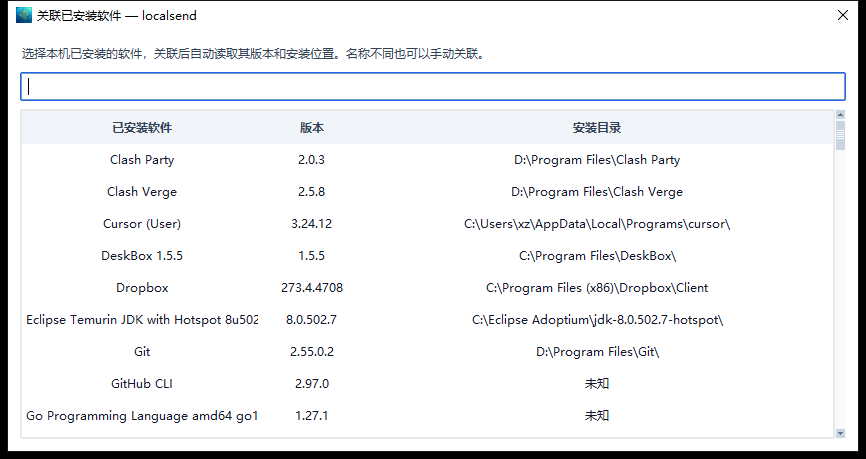
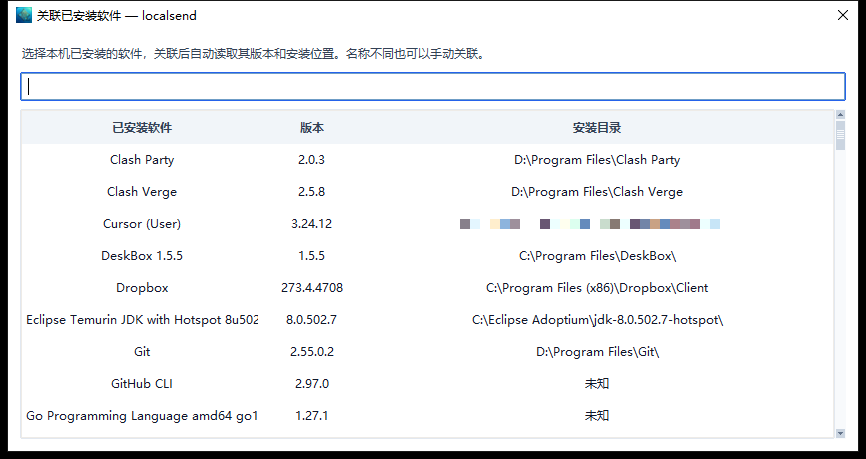
📝 docs(readme): 新增 Windows 与 macOS 界面截图对照表并遮盖截图中的个人信息

Changed region(s): [[0.53, 0.4575, 0.8418, 0.5185]]

diff --git a/README.md b/README.md
@@ -14,6 +14,47 @@ macOS 实现在 [`mac/`](mac/README.md)，与 Windows 程序分开。
 - 自动保存软件配置、窗口位置和大小。
 - 自动检查并更新管理器自身。
 
+## 界面截图
+
+<table>
+  <tr><th>页面</th><th>Windows</th><th>macOS</th></tr>
+  <tr>
+    <td>CLIProxyAPI</td>
+    <td><img src="img/01-CLIProxyAPI.png" width="420" alt="Windows CLIProxyAPI"></td>
+    <td><img src="img/mac/01-CLIProxyAPI.png" width="420" alt="macOS CLIProxyAPI"></td>
+  </tr>
+  <tr>
+    <td>CPA-Manager-Plus</td>
+    <td><img src="img/02-CPA-Manager-Plus.png" width="420" alt="Windows CPA-Manager-Plus"></td>
+    <td><img src="img/mac/02-CPA-Manager-Plus.png" width="420" alt="macOS CPA-Manager-Plus"></td>
+  </tr>
+  <tr>
+    <td>免安装软件</td>
+    <td><img src="img/03-免安装软件.png" width="420" alt="Windows 免安装软件"></td>
+    <td><img src="img/mac/03-免安装软件.png" width="420" alt="macOS 免安装软件"></td>
+  </tr>
+  <tr>
+    <td>安装向导软件</td>
+    <td><img src="img/04-安装向导软件.png" width="420" alt="Windows 安装向导软件"></td>
+    <td><img src="img/mac/04-安装向导软件.png" width="420" alt="macOS 安装向导软件"></td>
+  </tr>
+  <tr>
+    <td>设置</td>
+    <td><img src="img/05-设置.png" width="420" alt="Windows 设置"></td>
+    <td><img src="img/mac/05-设置.png" width="420" alt="macOS 设置"></td>
+  </tr>
+  <tr>
+    <td>软件库</td>
+    <td><img src="img/06-软件库.png" width="420" alt="Windows 软件库"></td>
+    <td>—</td>
+  </tr>
+  <tr>
+    <td>关联已安装软件</td>
+    <td><img src="img/07-关联已安装软件.png" width="420" alt="Windows 关联已安装软件"></td>
+    <td>—</td>
+  </tr>
+</table>
+
 ## 使用方法
 
 1. 从 [Releases](https://github.com/Xunzi229/CPA-Win-Manager/releases/latest) 下载与 Windows 架构对应的压缩包。

diff --git a/mac/README.md b/mac/README.md
@@ -8,6 +8,14 @@ macOS 上管理 [CLIProxyAPI](https://github.com/router-for-me/CLIProxyAPI) 和 
 
 ---
 
+## 界面截图
+
+![CLIProxyAPI](../img/mac/01-CLIProxyAPI.png)
+![CPA-Manager-Plus](../img/mac/02-CPA-Manager-Plus.png)
+![免安装软件](../img/mac/03-免安装软件.png)
+![安装向导软件](../img/mac/04-安装向导软件.png)
+![设置](../img/mac/05-设置.png)
+
 ## 功能特性
 
 - **服务生命周期管控**：按本机架构下载 darwin 安装包，校验 SHA256，安装、启动、停止、重启。已有 `config.yaml` / `config.json` 不会被覆盖。服务启动后一键直达 Web 控制台（`/management.html`）。
